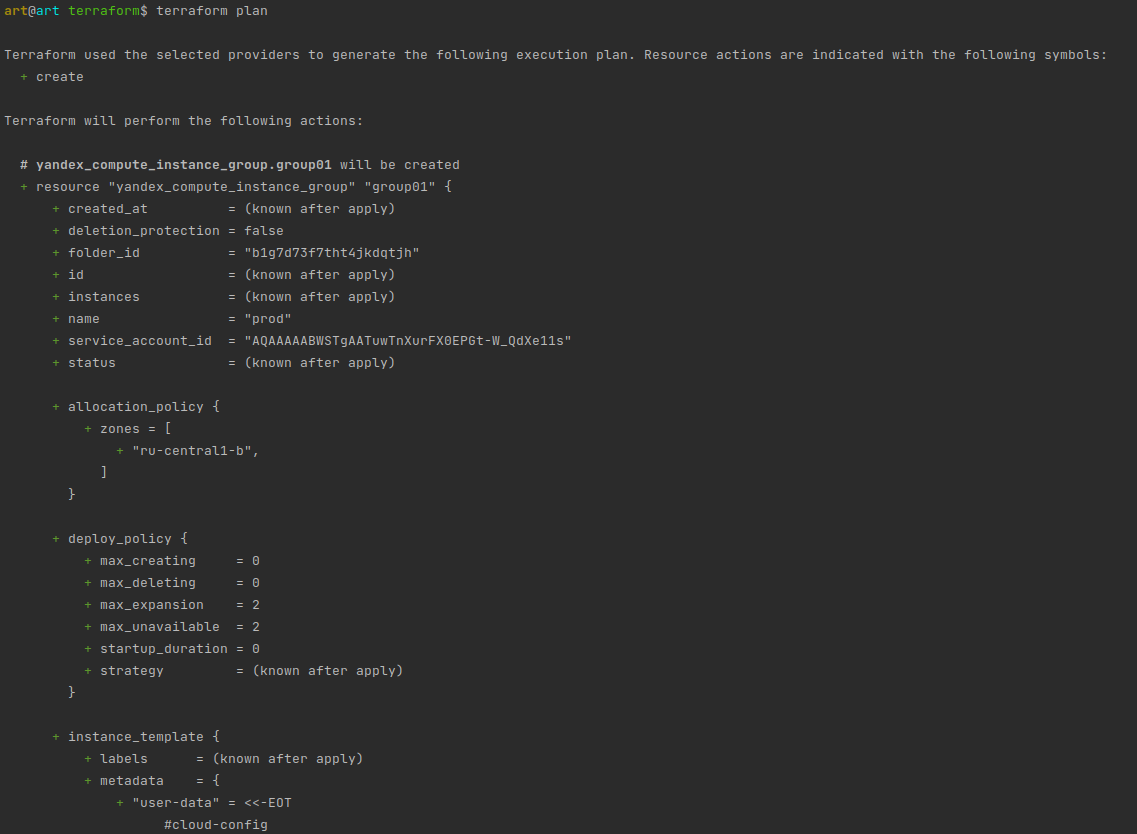
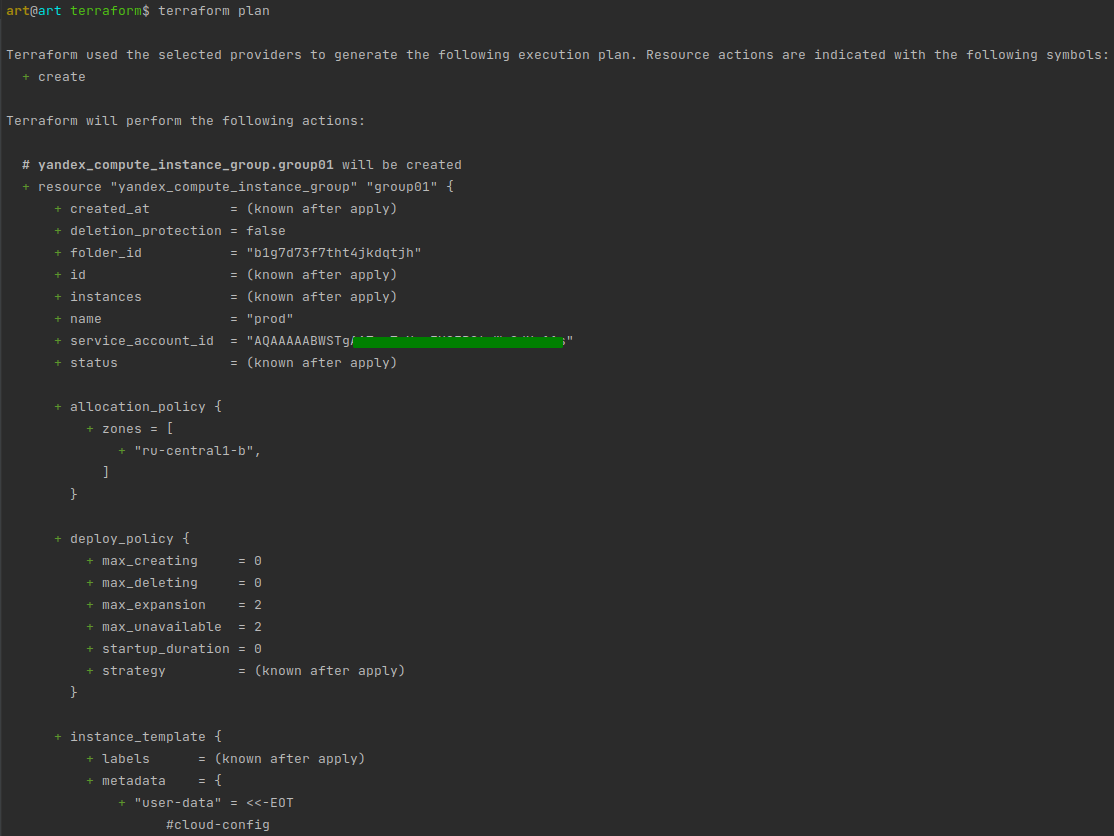
DONE hw 07-terraform-03-basic

diff --git a/07-terraform-03-basic/README.md b/07-terraform-03-basic/README.md
@@ -1,0 +1,20 @@
+### Задача 1. По причинам санкций пункт пришлось решить через Yandex.Cloud
+
+![drawing](img/res1.png)
+![drawing](img/res2.png)
+
+### Задача 2. Инициализируем проект и создаем воркспейсы.
+В виде результата работы пришлите:
+
+* Вывод команды terraform workspace list.
+* Вывод команды terraform plan для воркспейса prod.
+
+`Ответ:`
+
+![drawing](img/res3.png)
+
+![drawing](img/res4.png)
+
+![drawing](img/res5.png)
+![drawing](img/res6.png)
+![drawing](img/res7.png)

diff --git a/README.md b/README.md
@@ -1,0 +1,8 @@
+### Будут проигнорированы следующие файлы и каталоги:
+
+- Все вложенные каталоги .terraform
+- Файлы с расширением .tfstate
+- Файлы содержащие в названии .tfstate.
+- Файлы с расшиерением .tfvars
+- Файлы crash.log, override.tf, override.tf.json, .terraformrc, terraform.rc
+- Файлы заканчивающиеся на _override.tf _override.tf.json
